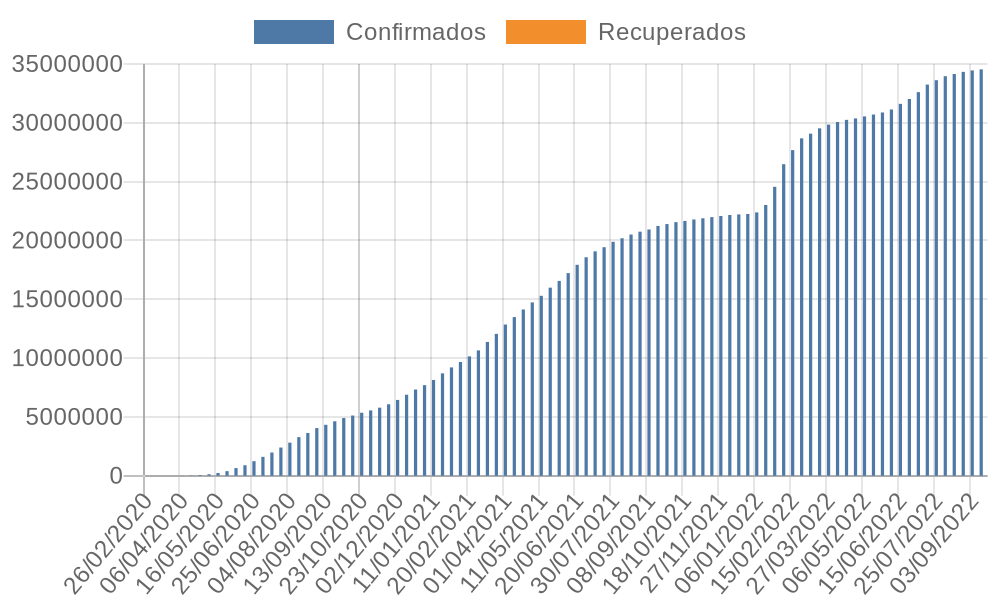
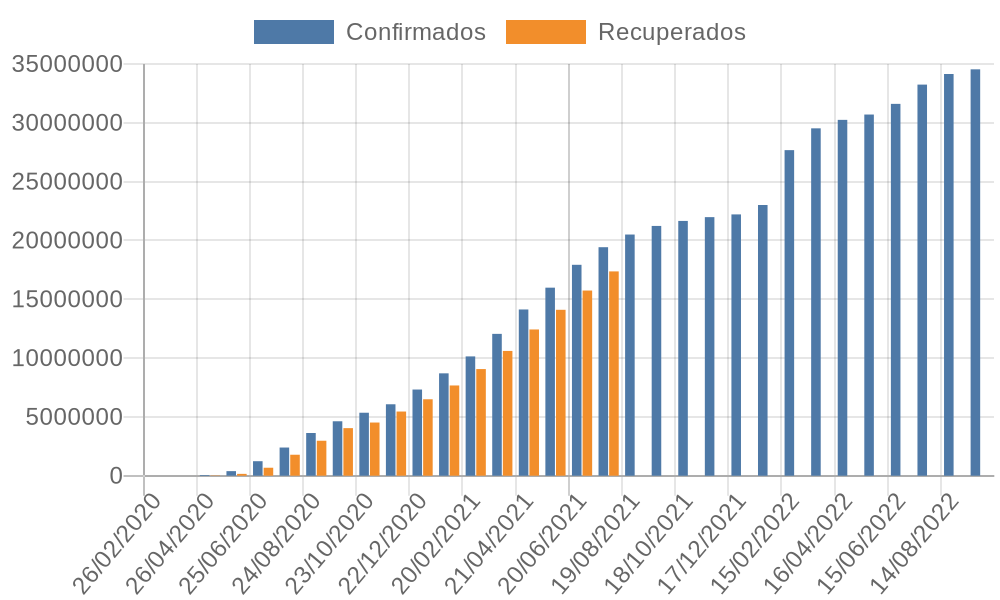
Dados covid

Changed region(s): [[0.062, 0.12, 0.992, 0.99]]

diff --git a/main.py b/main.py
@@ -3,21 +3,21 @@ import datetime as dt
 import csv
 from PIL import Image
 from IPython.display import display
+from urllib.parse import quote
 
 url = 'https://api.covid19api.com/dayone/country/brazil'
 
 resp = r.get(url)
 
-print(resp.status_code)
+"""print(resp.status_code)"""
 raw_data = resp.json()
-print(raw_data[0])
+"""print(raw_data[0])"""
 
 final_data = []
 for obs in raw_data:
     final_data.append([obs['Confirmed'], obs['Deaths'], obs['Recovered'], obs['Active'], obs['Date']])
 
 final_data.insert(0, ['confirmados', 'obitos', 'recuperados', 'ativos', 'data'])
-print(final_data)
 
 CONFIRMADOS = 0
 OBITOS = 1
@@ -27,7 +27,7 @@ DATA = 4
 
 for i in range(1, len(final_data)):
     final_data[i][DATA] = final_data[i][DATA][:10]
-print(final_data)
+"""print(final_data)"""
 
 with open('br-covid-19.csv', 'w') as file:
     writer = csv.writer(file)
@@ -35,7 +35,7 @@ with open('br-covid-19.csv', 'w') as file:
 
 for i in range(1, len(final_data)):
     final_data[i][DATA] = dt.datetime.strptime(final_data[i][DATA], '%Y-%m-%d')
-print(final_data)
+"""print(final_data)"""
 
 
 def get_datasets(y, labels):
@@ -99,20 +99,31 @@ def display_image(path):
 
 
 y_data_1 = []
-for obs in final_data[1::10]:
+for obs in final_data[1::30]:
     y_data_1.append(obs[CONFIRMADOS])
 
 y_data_2 = []
-for obs in final_data[1::10]:
-    y_data_1.append(obs[CONFIRMADOS])
+for obs in final_data[1::30]:
+    y_data_2.append(obs[RECUPERADOS])
 
 labels = ['Confirmados', 'Recuperados']
 
 x = []
-for obs in final_data[1::10]:
+for obs in final_data[1::30]:
     x.append(obs[DATA].strftime('%d/%m/%Y'))
 
 chart = create_chart(x, [y_data_1, y_data_2], labels, title='Gráfico confirmados vs recuperados')
 chart_content = get_api_chart(chart)
 save_image('meu-primeiro-grafico.png', chart_content)
 display_image('meu-primeiro-grafico.png')
+
+def get_api_qrcode(link):
+    text = quote(link) #parsing do link para url
+    url_base = 'https://quickchart.io/qr'
+    resp = r.get(f'{url_base}?text={text}')
+    return resp.content
+
+url_base = 'https://quickchart.io/chart'
+link = f'{url_base}?c={str(chart)}'
+save_image('qr-code.png', get_api_qrcode(link))
+display_image('qr-code.png')
